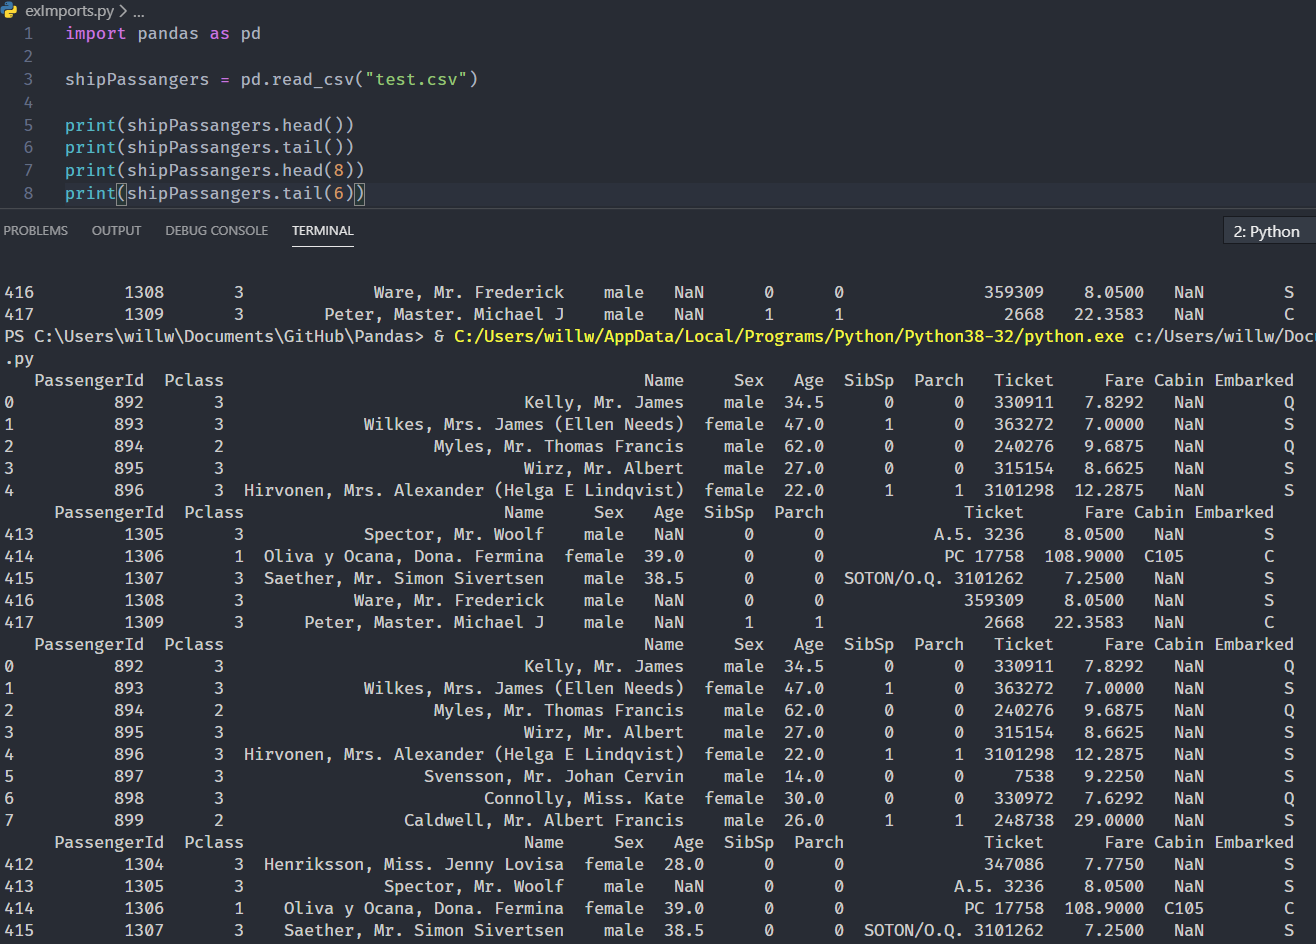
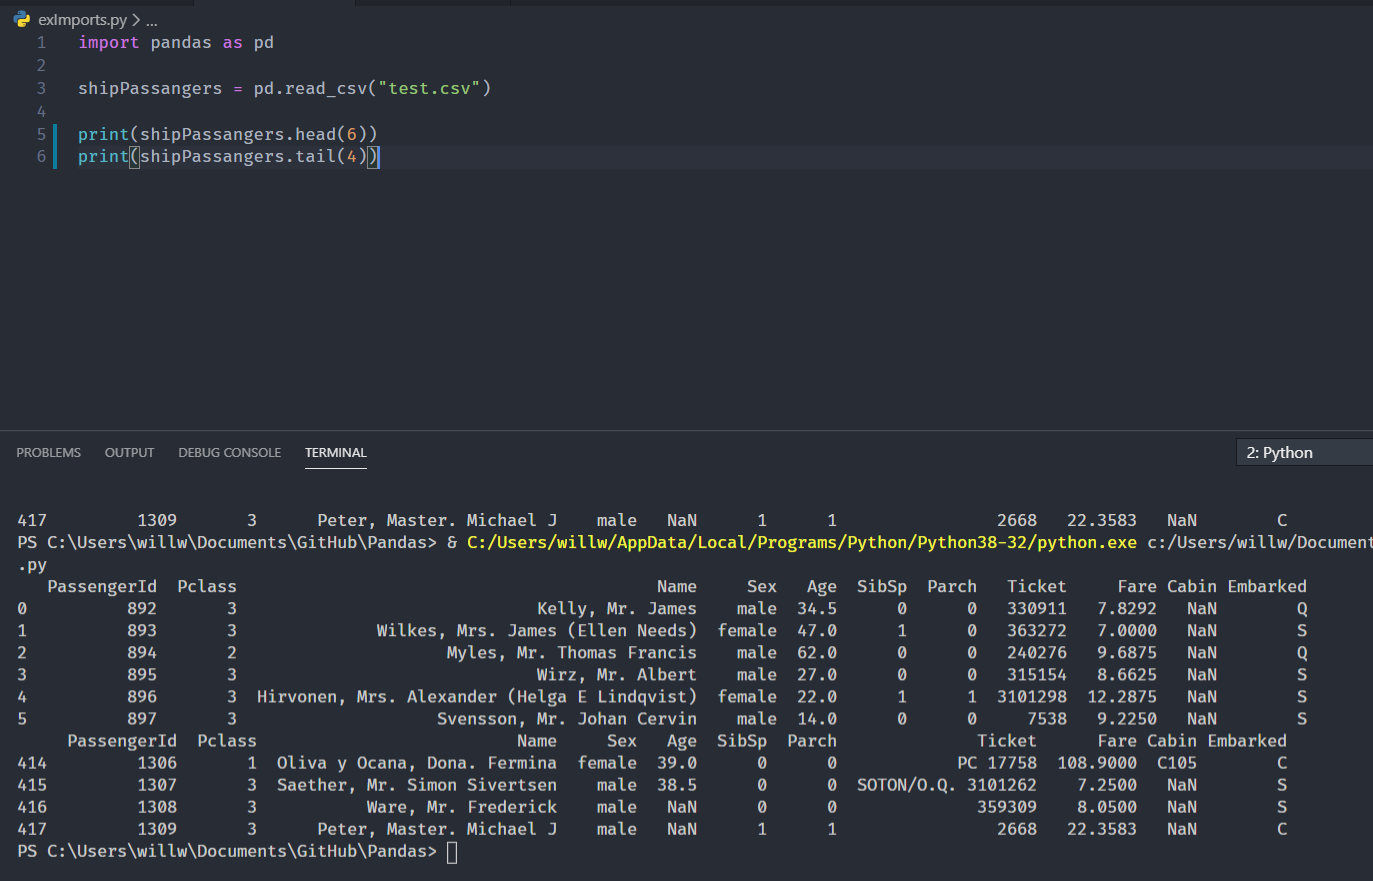
Task 6

diff --git a/exImports.py b/exImports.py
@@ -2,7 +2,5 @@ import pandas as pd
 
 shipPassangers = pd.read_csv("test.csv")
 
-print(shipPassangers.head())
-print(shipPassangers.tail())
-print(shipPassangers.head(8))
-print(shipPassangers.tail(6))
+print(shipPassangers.head(6))
+print(shipPassangers.tail(4))
